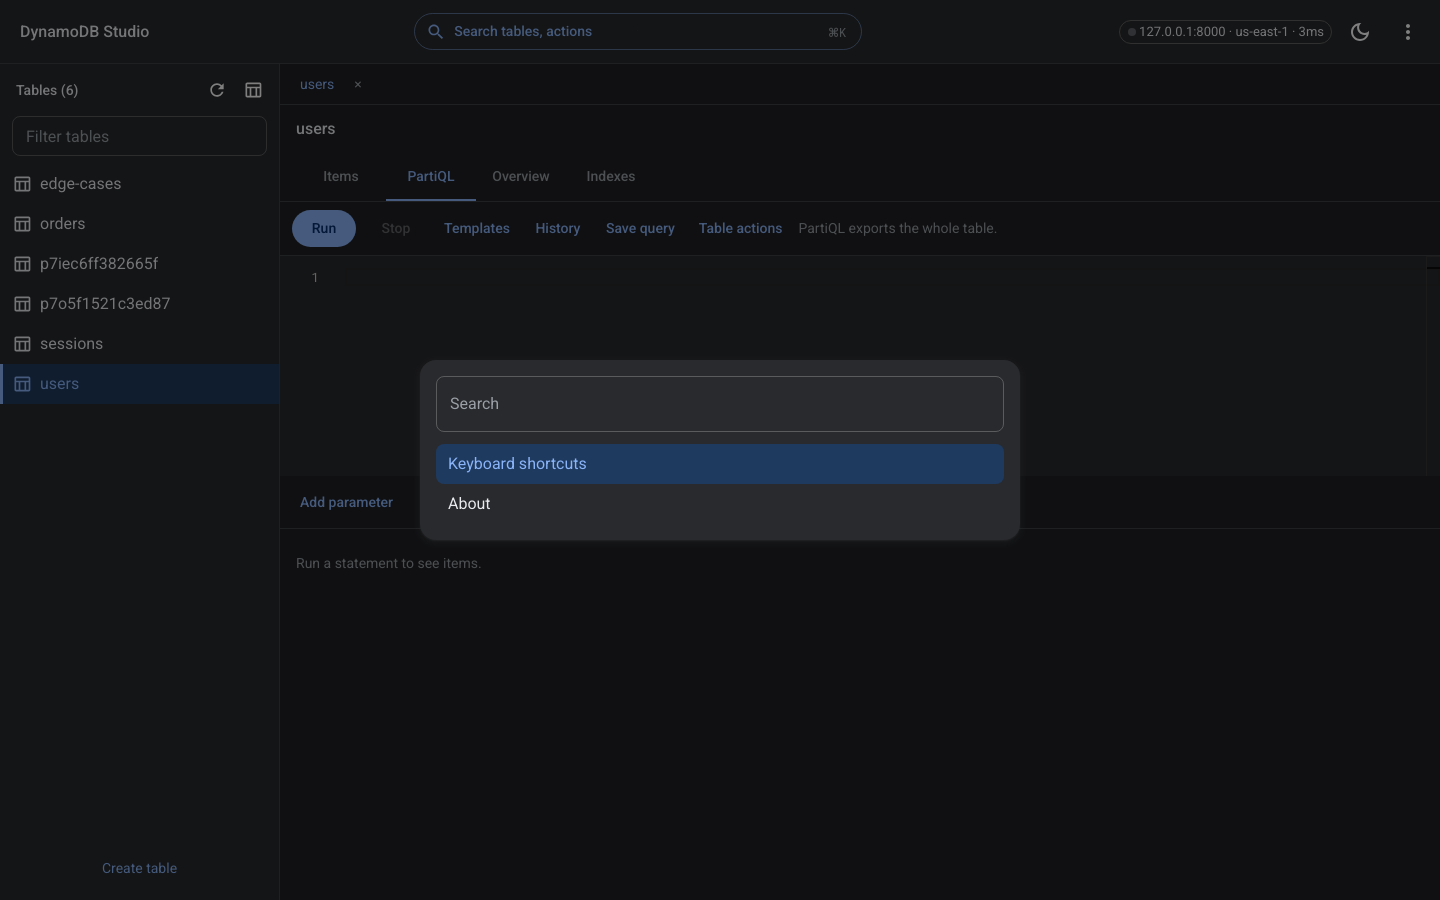
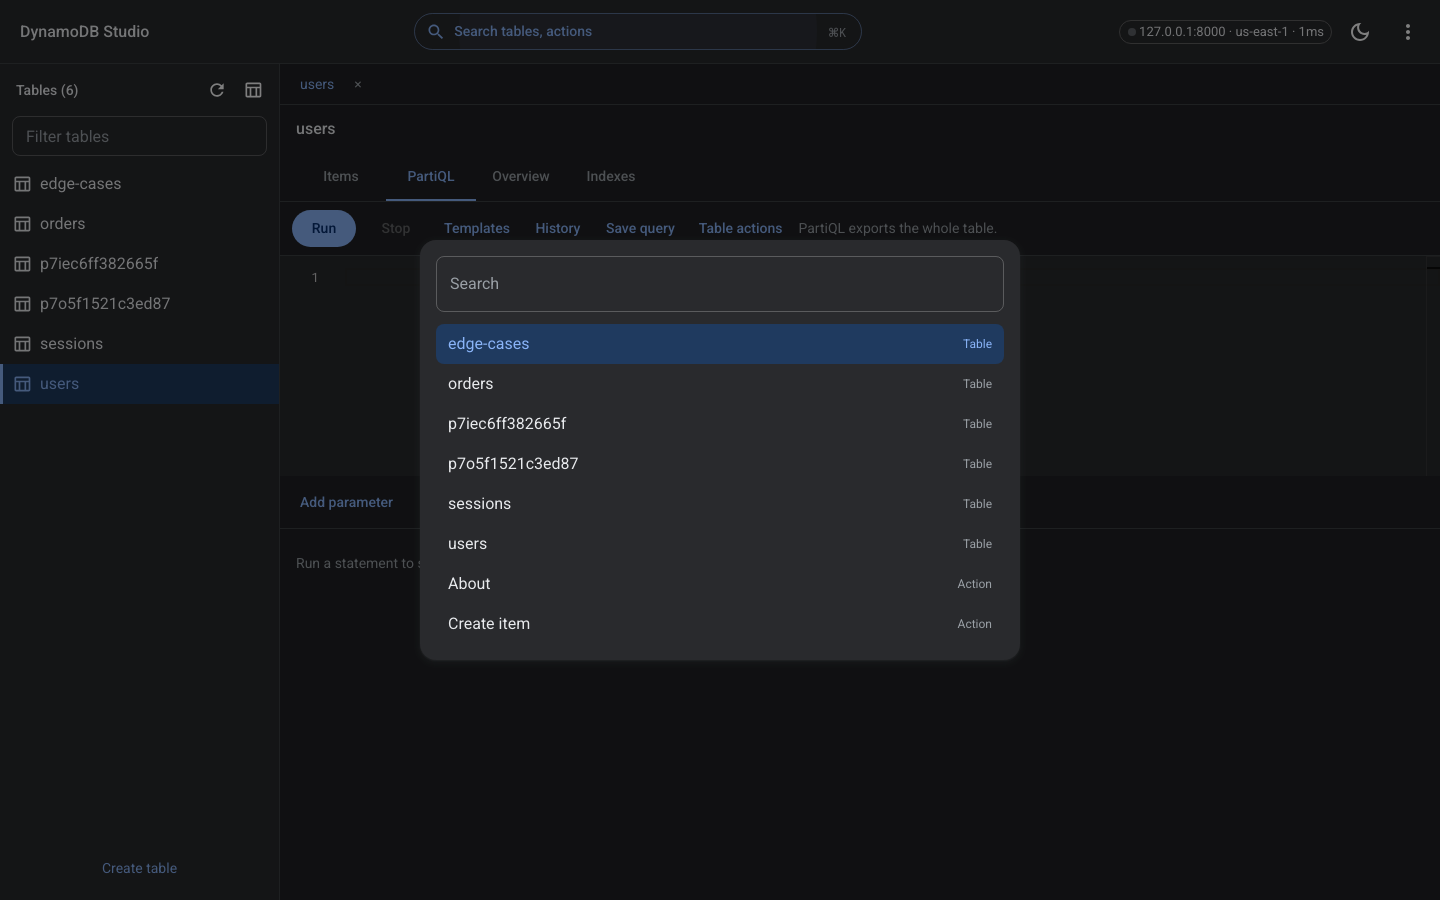
fix(web): make the palette and shortcut list pass axe
The command list put list items inside a listbox, and the selected kind label missed the dark contrast floor. The shortcut list is now a focusable scroll region, and the keyboard checklist is committed.

Refs AC-8.2.

Changed region(s): [[0.2812, 0.2489, 0.7188, 0.7467]]

diff --git a/e2e/polish.spec.ts b/e2e/polish.spec.ts
@@ -1,5 +1,7 @@
+import AxeBuilder from "@axe-core/playwright";
 import { expect, test, type Page } from "@playwright/test";
 import { ensureDir } from "../apps/server/src/test-files.js";
+import { isSerious } from "./axe.js";
 import { connectLocal } from "./session.js";
 
 for (const scheme of ["light", "dark"] as const) {
@@ -15,6 +17,7 @@ for (const scheme of ["light", "dark"] as const) {
     await page.goto("/");
     await expect(page.getByRole("heading", { name: "DynamoDB Studio" })).toBeVisible();
     await expect(page.getByText("docker run -p 8000:8000 amazon/dynamodb-local")).toBeVisible();
+    await expectNoSerious(page);
     await shot(page, `connect-${scheme}`);
 
     await page.getByRole("textbox", { name: "Endpoint" }).fill("http://127.0.0.1:9");
@@ -61,18 +64,21 @@ for (const scheme of ["light", "dark"] as const) {
 
     await page.getByRole("button", { name: /Search tables/ }).click();
     await expect(page.getByRole("dialog", { name: "Search" })).toBeVisible();
+    await expectNoSerious(page);
     await shot(page, `palette-${scheme}`);
     await page.keyboard.press("Escape");
 
     await page.getByRole("button", { name: "More actions" }).click();
     await page.getByRole("menuitem", { name: "Shortcuts" }).click();
     await expect(page.getByRole("dialog", { name: "Keyboard shortcuts" })).toBeVisible();
+    await expectNoSerious(page);
     await shot(page, `shortcuts-${scheme}`);
     await page.keyboard.press("Escape");
 
     await page.getByRole("button", { name: "More actions" }).click();
     await page.getByRole("menuitem", { name: "About" }).click();
     await expect(page.getByRole("dialog", { name: "About" })).toBeVisible();
+    await expectNoSerious(page);
     await shot(page, `about-${scheme}`);
     await page.keyboard.press("Escape");
 
@@ -90,8 +96,24 @@ for (const scheme of ["light", "dark"] as const) {
 
     await page.goto("/no-such-page");
     await expect(page.getByRole("heading", { name: "That page doesn't exist" })).toBeVisible();
+    await expectNoSerious(page);
     await shot(page, `not-found-${scheme}`);
   });
+}
+
+test("connect stays usable at 200% zoom", async ({ page }) => {
+  await page.setViewportSize({ width: 1280, height: 800 });
+  await page.goto("/");
+  await page.evaluate(() => {
+    document.documentElement.style.zoom = "2";
+  });
+  await expect(page.getByRole("button", { name: "Connect" })).toBeVisible();
+  await expect(page.getByRole("textbox", { name: "Endpoint" })).toBeVisible();
+});
+
+async function expectNoSerious(page: Page): Promise<void> {
+  const result = await new AxeBuilder({ page }).analyze();
+  expect(result.violations.filter((violation) => isSerious(violation.impact))).toEqual([]);
 }
 
 async function shot(page: Page, name: string): Promise<void> {

diff --git a/apps/web/src/components/CommandPalette.tsx b/apps/web/src/components/CommandPalette.tsx
@@ -86,33 +86,34 @@ export function CommandPalette() {
             }
           }}
         />
-        <ul
-          role="listbox"
-          aria-label="Commands"
-          className="m-0 mt-3 max-h-80 list-none overflow-auto p-0"
-        >
-          {results.map((entry, index) => (
-            <li key={entry.id}>
+        <div role="listbox" aria-label="Commands" className="mt-3 max-h-80 overflow-auto">
+          {results.map((entry, index) => {
+            const selected = entry.id === current?.id;
+            return (
               <button
+                key={entry.id}
                 id={`palette-opt-${String(index)}`}
                 type="button"
                 role="option"
-                aria-selected={entry.id === current?.id}
+                aria-selected={selected}
                 className={`flex h-10 w-full items-center gap-3 rounded-lg px-3 text-left ${
-                  entry.id === current?.id ? "bg-primary-container text-primary" : ""
+                  selected ? "bg-primary-container text-primary" : ""
                 }`}
                 onClick={() => {
                   choose(entry.id);
                 }}
               >
                 <span className="min-w-0 flex-1 truncate">{entry.label}</span>
-                <span className="text-xs text-text-secondary" aria-hidden="true">
+                <span
+                  className={`text-xs ${selected ? "text-primary" : "text-text-secondary"}`}
+                  aria-hidden="true"
+                >
                   {kindLabel(entry.kind)}
                 </span>
               </button>
-            </li>
-          ))}
-        </ul>
+            );
+          })}
+        </div>
         {results.length === 0 ? (
           <p className="px-3 py-6 text-center text-sm text-text-secondary">No matches</p>
         ) : null}

diff --git a/apps/web/src/components/ShortcutHelpDialog.tsx b/apps/web/src/components/ShortcutHelpDialog.tsx
@@ -17,7 +17,11 @@ export function ShortcutHelpDialog() {
       <DialogTitle id="shortcuts-title" className="shrink-0">
         Keyboard shortcuts
       </DialogTitle>
-      <DialogContent className="min-h-0 overflow-y-auto">
+      <DialogContent
+        tabIndex={0}
+        aria-label="Shortcut list"
+        className="min-h-0 overflow-y-auto outline-none focus-visible:outline-2 focus-visible:outline-primary"
+      >
         {shortcutGroups().map((section) => (
           <section key={section.group} className="mt-4 first:mt-0">
             <h3 className="m-0 text-xs text-text-secondary">{section.group}</h3>

diff --git a/apps/web/src/test/setup.ts b/apps/web/src/test/setup.ts
@@ -1,10 +1,12 @@
 import "@testing-library/jest-dom/vitest";
-import { cleanup } from "@testing-library/react";
+import { cleanup, configure } from "@testing-library/react";
 import { afterEach, vi } from "vitest";
 import { resetApiSession } from "../lib/api.js";
 import { useCommandStore } from "../stores/commands.js";
 import { useOverlayStore } from "../stores/overlay.js";
 import { uiDefaults, useUiStore } from "../stores/ui.js";
+
+configure({ asyncUtilTimeout: 3000 });
 
 if (typeof window.matchMedia !== "function") {
   Object.defineProperty(window, "matchMedia", {

diff --git a/docs/KEYBOARD.md b/docs/KEYBOARD.md
@@ -1,0 +1,25 @@
+# Keyboard checklist
+
+The shortcut dialog and the key handlers read `SHORTCUTS` in `apps/web/src/lib/hotkeys.ts`. This list is the manual audit. It was checked from the keyboard and the accessibility tree, not a live screen reader.
+
+| Action                        | Keys                                 | Where                          | Checked by                             |
+| ----------------------------- | ------------------------------------ | ------------------------------ | -------------------------------------- |
+| Search                        | Ctrl K or ⌘K, including while typing | Anywhere                       | `e2e/shell.spec.ts`, `hotkeys.test.ts` |
+| Keyboard shortcuts            | ?                                    | Anywhere, not while typing     | `e2e/shell.spec.ts`                    |
+| Toggle sidebar                | [                                    | Anywhere, not while typing     | `hotkeys.test.ts`                      |
+| Close                         | Esc                                  | Dialog, drawer, then selection | `e2e/shell.spec.ts`                    |
+| Save item                     | Ctrl S or ⌘S                         | Item editor                    | `hotkeys.test.ts`                      |
+| Format JSON                   | Ctrl Shift F or ⌘⇧F                  | Item editor                    | `hotkeys.test.ts`                      |
+| Toggle JSON mode              | Alt M                                | Item editor                    | `hotkeys.test.ts`                      |
+| Resize the drawer or a column | Arrow left or Arrow right            | Separator or column edge       | `hotkeys.test.ts`                      |
+| Run query                     | Ctrl Enter or ⌘Enter                 | Query and PartiQL              | `hotkeys.test.ts`, `e2e/query.spec.ts` |
+| Move between cells            | Arrow keys                           | Items grid                     | `e2e/shell.spec.ts`                    |
+| First or last cell            | Home or End                          | Items grid                     | `hotkeys.test.ts`                      |
+| Page through rows             | Page up or Page down                 | Items grid                     | `hotkeys.test.ts`                      |
+| Select the row                | Space                                | Items grid                     | `hotkeys.test.ts`                      |
+| Open the item                 | Enter                                | Items grid                     | `e2e/shell.spec.ts`                    |
+| Clear the selection           | Esc                                  | Items grid                     | `hotkeys.test.ts`                      |
+
+Command palette, after Search is open: Arrow up and Arrow down move the active row, Enter runs it, and a leading `>` lists actions only. `CommandPalette.test.tsx` covers Enter, `>theme`, `>density`, and switching a connection.
+
+At 1280×800 and 200% zoom, Connect and Endpoint stay visible (`e2e/polish.spec.ts`). Run query and Edit stayed visible in the phase 6 and phase 5 checks.

diff --git a/specs/progress.md b/specs/progress.md
@@ -101,7 +101,7 @@ T4.1 ✔ `apps/server/src/dynamo/expression-builder.test.ts`. Branch coverage 10
 - [x] T8.3 Shortcut audit + help dialog completeness + tests
 - [x] T8.4 Error boundaries, offline banner, recovery flows + tests
 - [x] T8.5 Performance pass
-- [ ] T8.6 Accessibility pass
+- [x] T8.6 Accessibility pass
 - [ ] T8.7 Security re-review
 - [ ] T8.8 Production build + static serving + graceful shutdown
 - [ ] T8.9 Dockerfile + compose example
@@ -120,6 +120,8 @@ T8.3 ✔ `hotkeys.test.ts` maps shell, editor, and query chords from `SHORTCUTS`
 T8.4 ✔ `OfflineBanner.test.tsx` shows the banner when the browser goes offline and leaves the heading in place. `App.test.tsx` keeps the connect screen, and a lost workspace shows the offline banner instead of "Connection lost" while `navigator.onLine` is false. `RouteErrorReset.test.tsx` retries the screen and keeps the shell. `MutationNotice.test.tsx` calls retry for "The save failed." Nothing is queued.
 
 T8.5 ✔ No budget missed, so no performance code change. `SidebarTableList.test.tsx` renders 1,000 virtualized names in 78.8 ms in jsdom and asserts that stays under 100 ms. `e2e/items.spec.ts` > "scrolls 10000 loaded order rows at 4x cpu" passed on 2026-10-31; the assertion is at least 55 fps and the list reporter did not print the exact rate. Production connect-screen FCP in Chromium was 408, 400, and 392 ms. One drawer click on the Vite dev server reached "Item details" in 19.5 ms. `GET /api/v1/health` over 100 calls had p50 1.45 ms and p95 1.92 ms, with no DynamoDB call. Initial JavaScript gzip is 231125 bytes. Monaco is not in the entry. Numbers are in the metrics log.
+
+T8.6 ✔ `e2e/polish.spec.ts` reports 0 serious or critical axe violations on the connect screen, command palette, shortcut dialog, About dialog, and the missing-page screen in light and dark. Connect and Endpoint stay visible at 1280×800 and 200% zoom. `docs/KEYBOARD.md` is the keyboard checklist. `docs/a11y-notes.md` records the palette, shortcuts, offline banner, and connect hint from the accessibility tree. Reduced motion keeps opacity-only transitions (`motion.test.ts`) and the connect screen skips its leave animation. A live VoiceOver or NVDA pass was not done.
 
 ## Phase 7 tasks
 - [x] T7.1 Shared schemas

diff --git a/docs/a11y-notes.md b/docs/a11y-notes.md
@@ -37,3 +37,29 @@ Checked with the accessibility tree in Playwright (roles and names), not a live 
 - A mutation opens a dialog titled with the verb, such as "UPDATE statement". The confirm button is "Run statement". A production connection asks for the quoted table name.
 - The results use the same Items grid. An empty run says "Run a statement to see items."
 - axe reported no serious or critical violations on the PartiQL view in light and dark. This was the accessibility tree, not a live screen reader.
+
+## Command palette
+
+- The dialog is named "Search". The field is named "Search". The results are a listbox named "Commands".
+- Each option's accessible name is the label. The kind (Table, Connection, Action) is hidden from the name.
+- Arrow keys move the active option. Enter runs it. Escape closes the dialog and returns focus to Search tables.
+- A leading `>` leaves only actions in the list.
+
+## Keyboard shortcuts
+
+- The dialog is named "Keyboard shortcuts". Groups are headings: Anywhere, Item editor, Query, Items grid.
+- The same `SHORTCUTS` list drives this dialog and the key handlers. The checklist is `docs/KEYBOARD.md`.
+
+## Offline
+
+- The banner is a status, not a dialog. The text is "You're offline. This screen stays put, and changes are not queued."
+- The current screen stays. A failed save or delete shows Retry. Nothing is written to a queue.
+
+## Connect hint
+
+- When no connection is saved, an info alert includes `docker run -p 8000:8000 amazon/dynamodb-local` and a Close button.
+- Close stores the dismissal. The alert does not come back on the next visit.
+
+When `prefers-reduced-motion: reduce` is set, transitions keep opacity only and the connect screen skips its leave animation. Skeletons stop the wave animation. `motion.test.ts` covers the transition helper.
+
+These notes are from the accessibility tree in the running app and in Playwright. A live VoiceOver or NVDA pass was not done.

diff --git a/specs/phases/phase-8-polish-hardening-packaging.md b/specs/phases/phase-8-polish-hardening-packaging.md
@@ -41,7 +41,7 @@ New features. Anything not already in specs goes to `specs/backlog.md`.
 - [x] T8.3 Shortcut audit + help dialog completeness + tests
 - [x] T8.4 Error boundaries, offline banner, recovery flows + tests
 - [x] T8.5 Performance pass (bundle visualizer, lazy boundaries, grid profiling, server profiling) + record metrics
-- [ ] T8.6 Accessibility pass (axe sweep, manual keyboard audit, screen-reader notes, zoom/reduced motion)
+- [x] T8.6 Accessibility pass (axe sweep, manual keyboard audit, screen-reader notes, zoom/reduced motion)
 - [ ] T8.7 Security re-review + `docs/SECURITY.md` + dependency audit
 - [ ] T8.8 Production build + static serving + graceful shutdown + tests
 - [ ] T8.9 Dockerfile + compose example + image smoke test in CI
